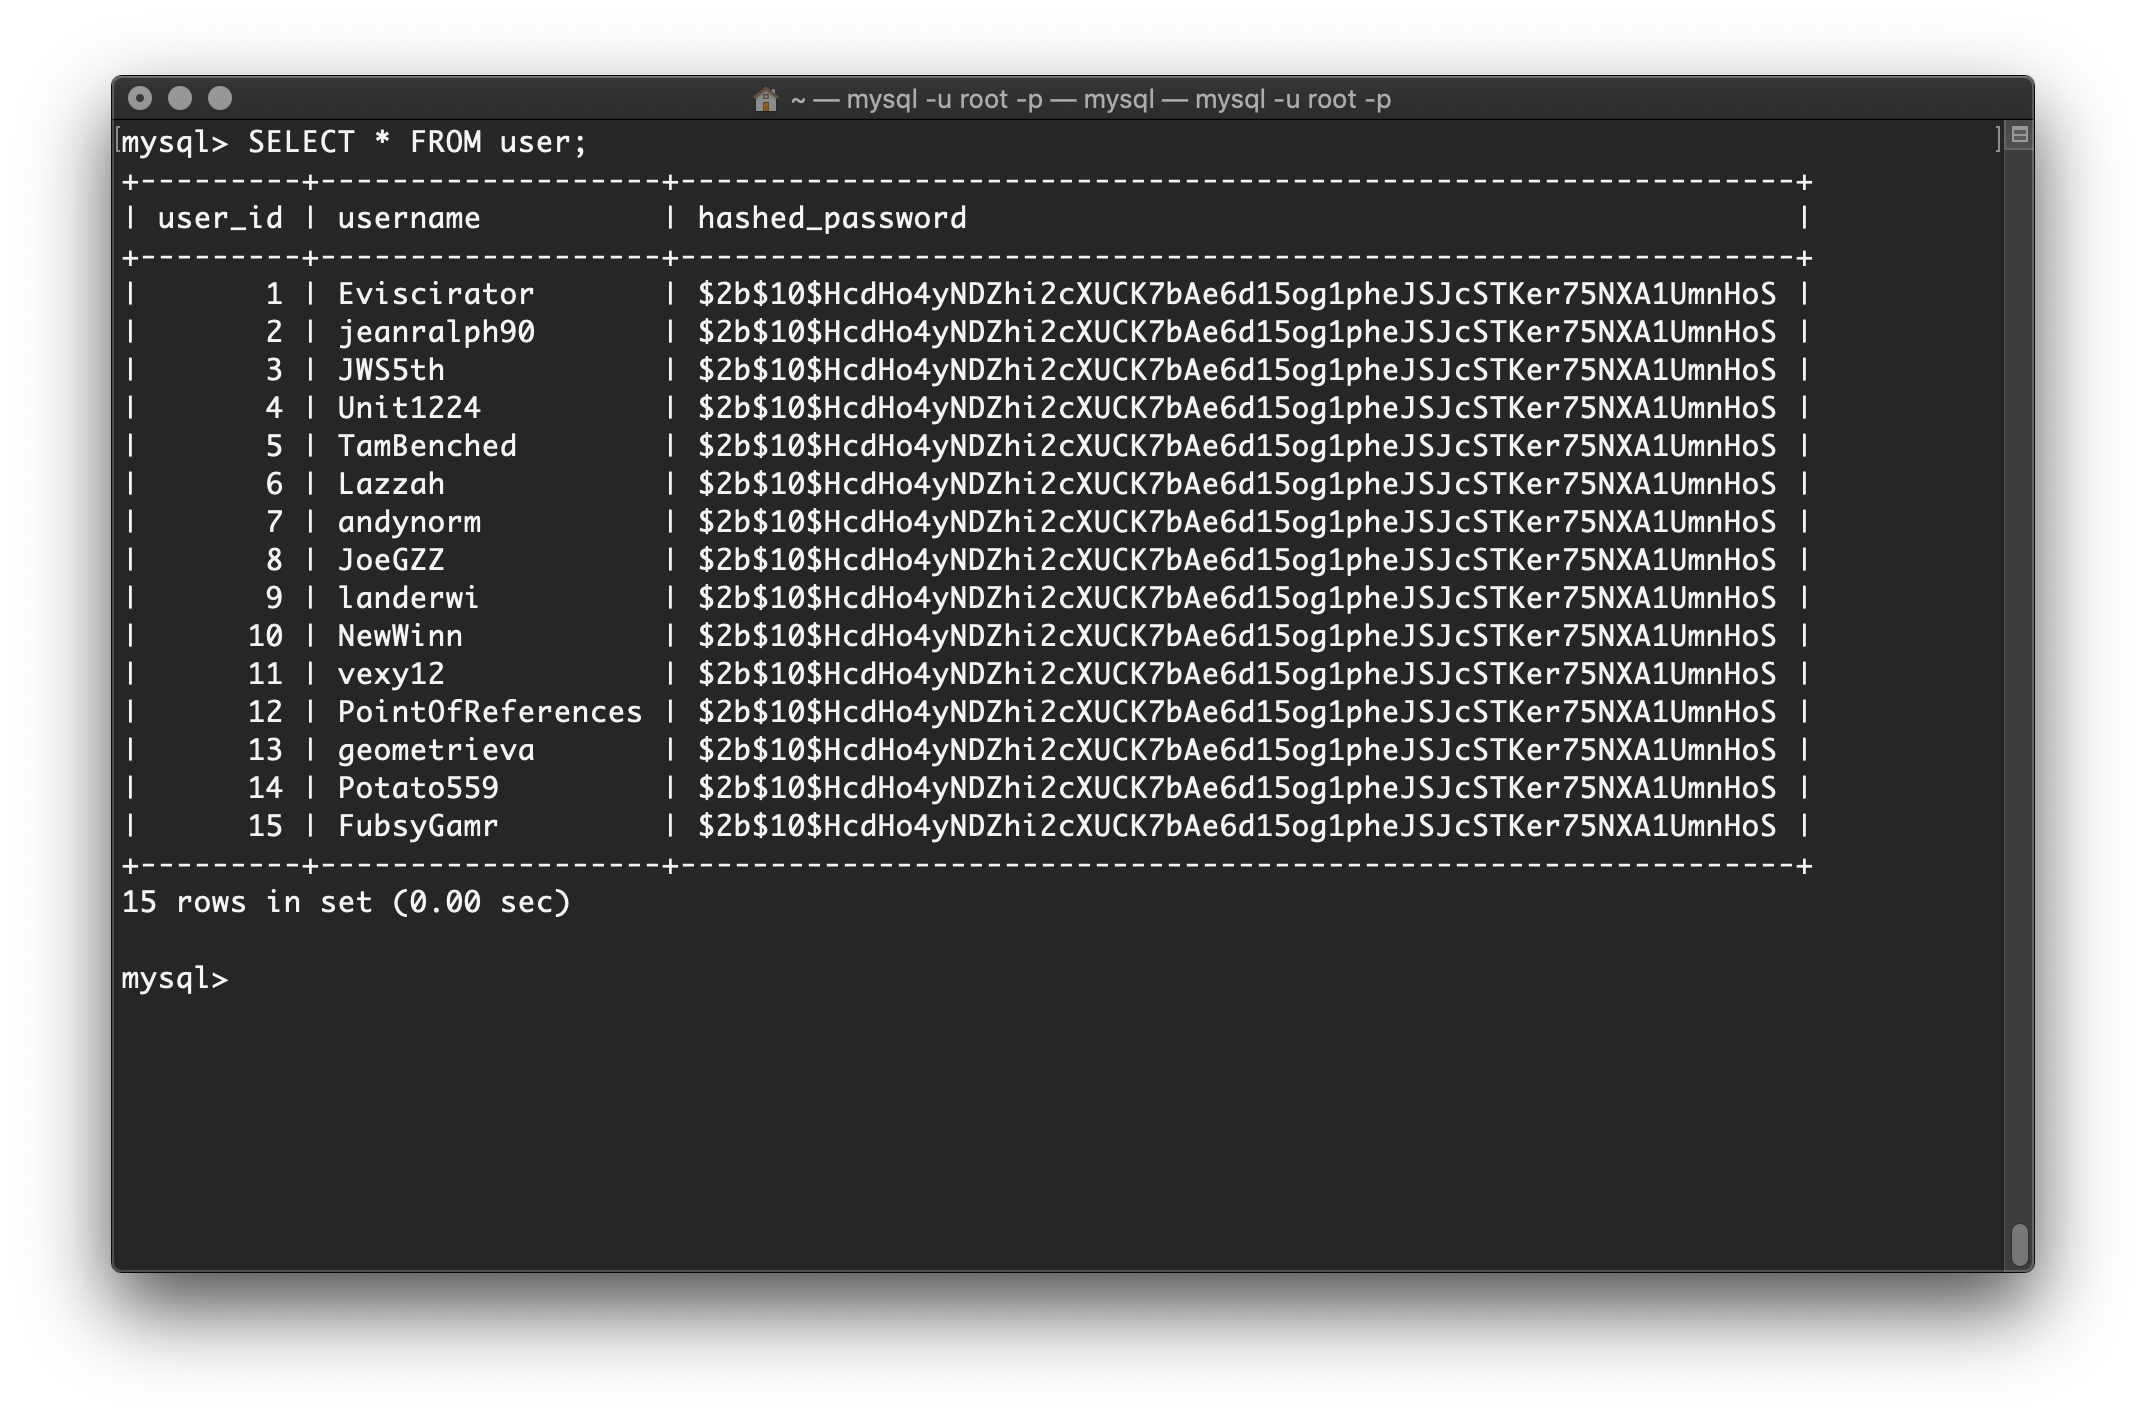
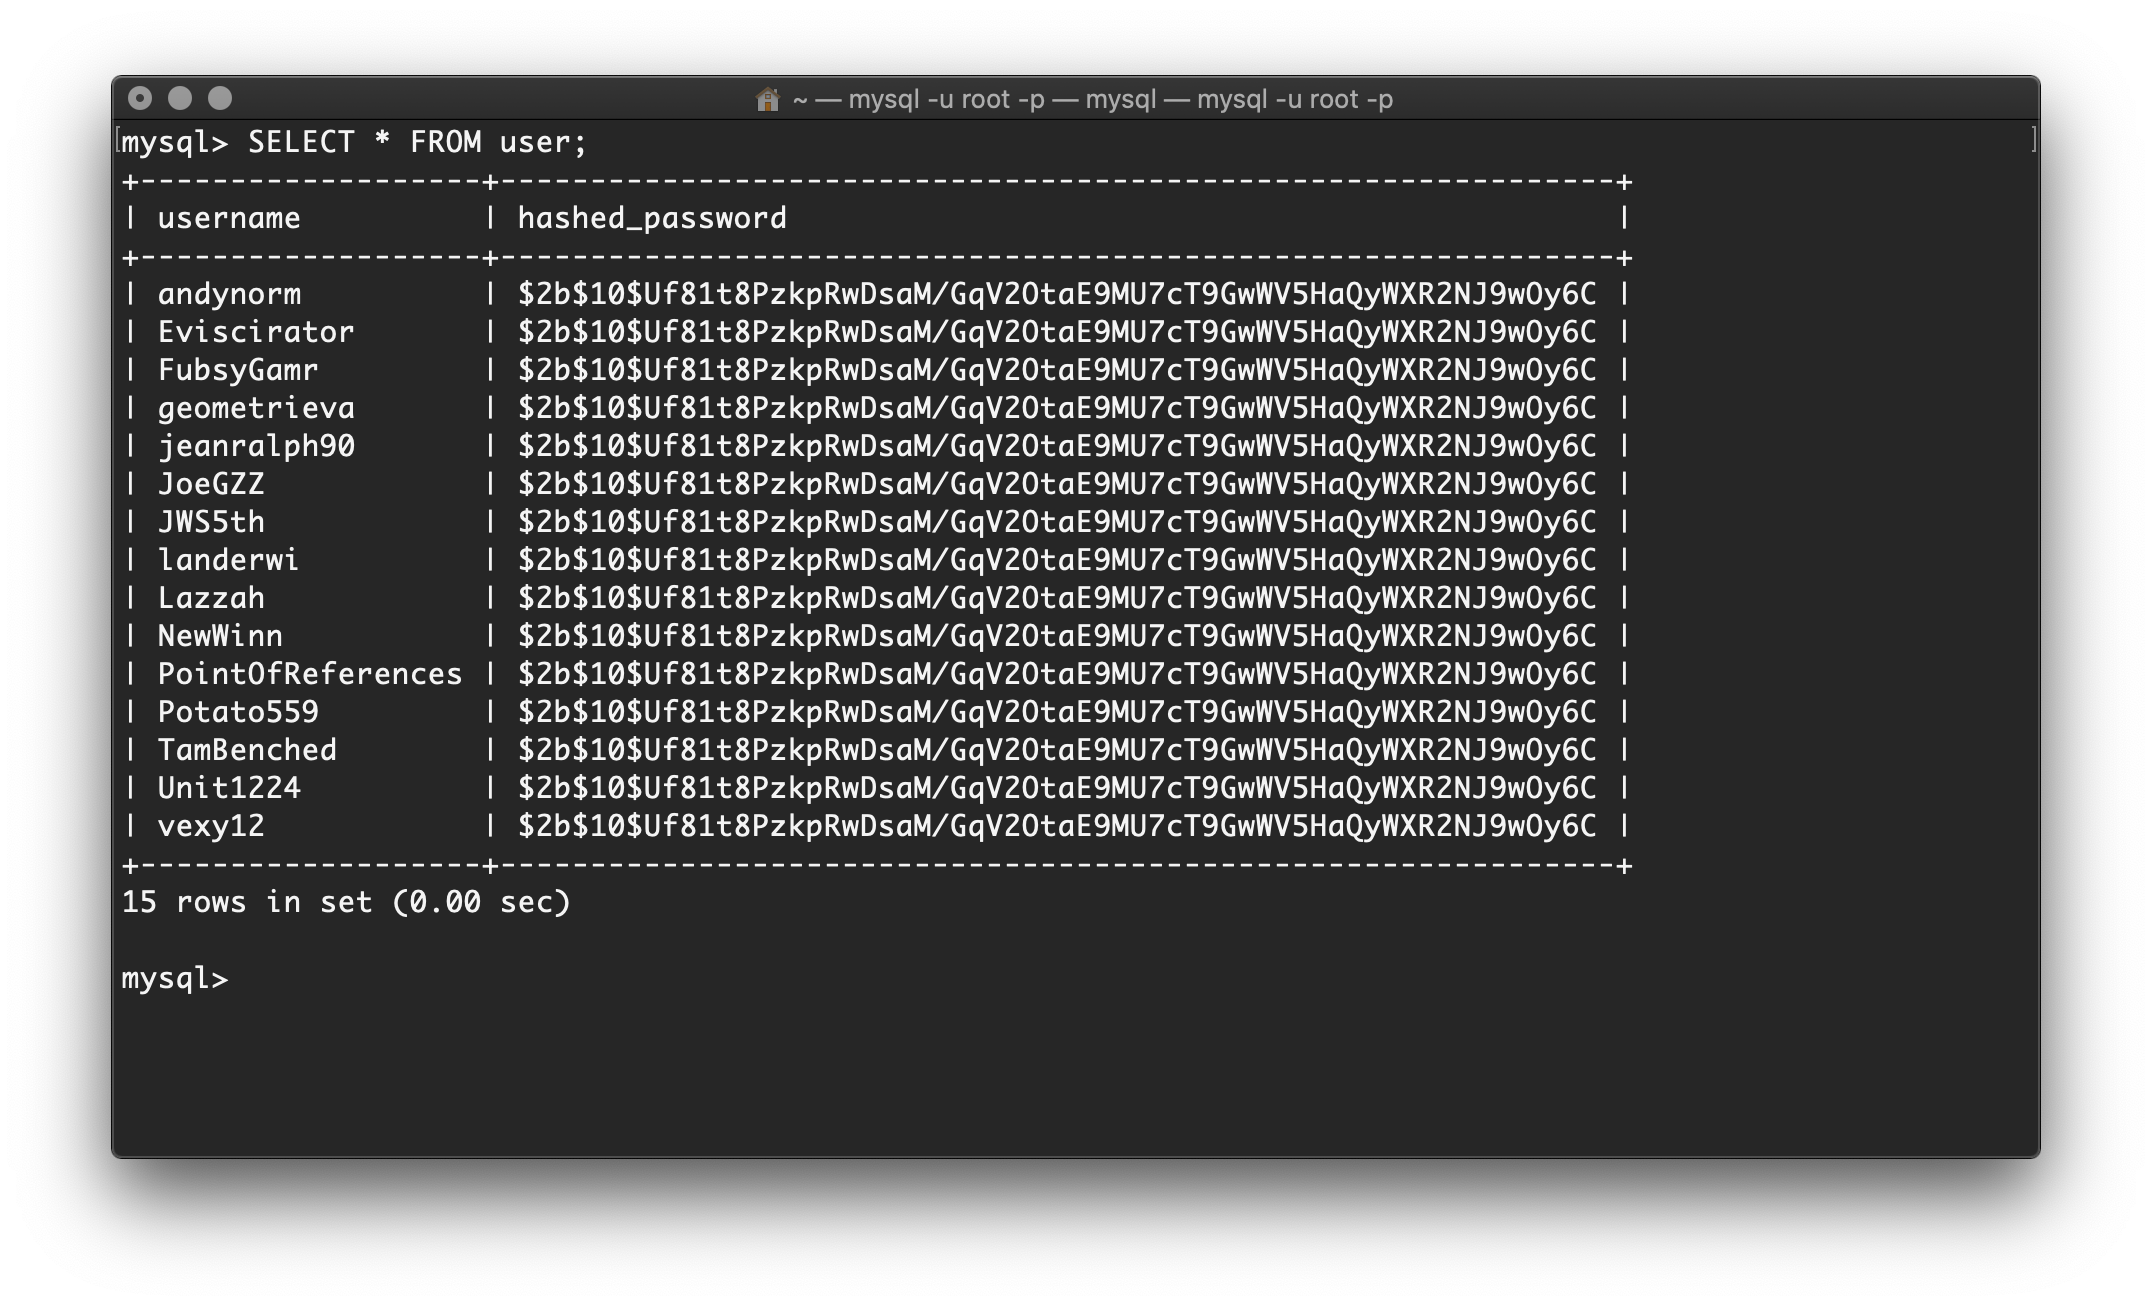
Update DB schema
Remove user_id from user entity set

diff --git a/express-app/routes/register.js b/express-app/routes/register.js
@@ -16,9 +16,7 @@ router.post('/', async (req, res, next) => {
     try {
         const hashed_password = await bcrypt.hashSync(req.body.password, saltRounds);
 
-        let user_id = Date.now();
-
-        const query = `INSERT INTO user VALUES ('${user_id}', '${req.body.username}', '${hashed_password}');`;
+        const query = `INSERT INTO user VALUES ('${req.body.username}', '${hashed_password}');`;
 
         database.query(query, (err, results) => {
             if (err) throw err;

diff --git a/docs/Project_Data_Model_And_Database Designs/Project_Data_Model_and_Database_Design_v3.md b/docs/Project_Data_Model_And_Database Designs/Project_Data_Model_and_Database_Design_v3.md
@@ -8,7 +8,7 @@
 
 ### user
 
-User is an entity set with three attributes: a unique id, a unique username and password. They key of user is user_id. The user entity set represents users of the application and their login information.
+User is an entity set with two attributes: a unique username and password. They key of user is username. The user entity set represents users of the application and their login information.
 
 ### closet
 
@@ -52,7 +52,7 @@ A user can have zero to many friends.
 
 ### Entity Sets
 
-* user (<ins>user_id</ins>, username, hashed_password)
+* user (<ins>username</ins>, hashed_password)
 * closet (<ins>closet_id</ins>, location)
 * outfit (<ins>outfit_name</ins>, season, tag)
 * attire (<ins>attire_id</ins>, type, name, brand, color, size)
